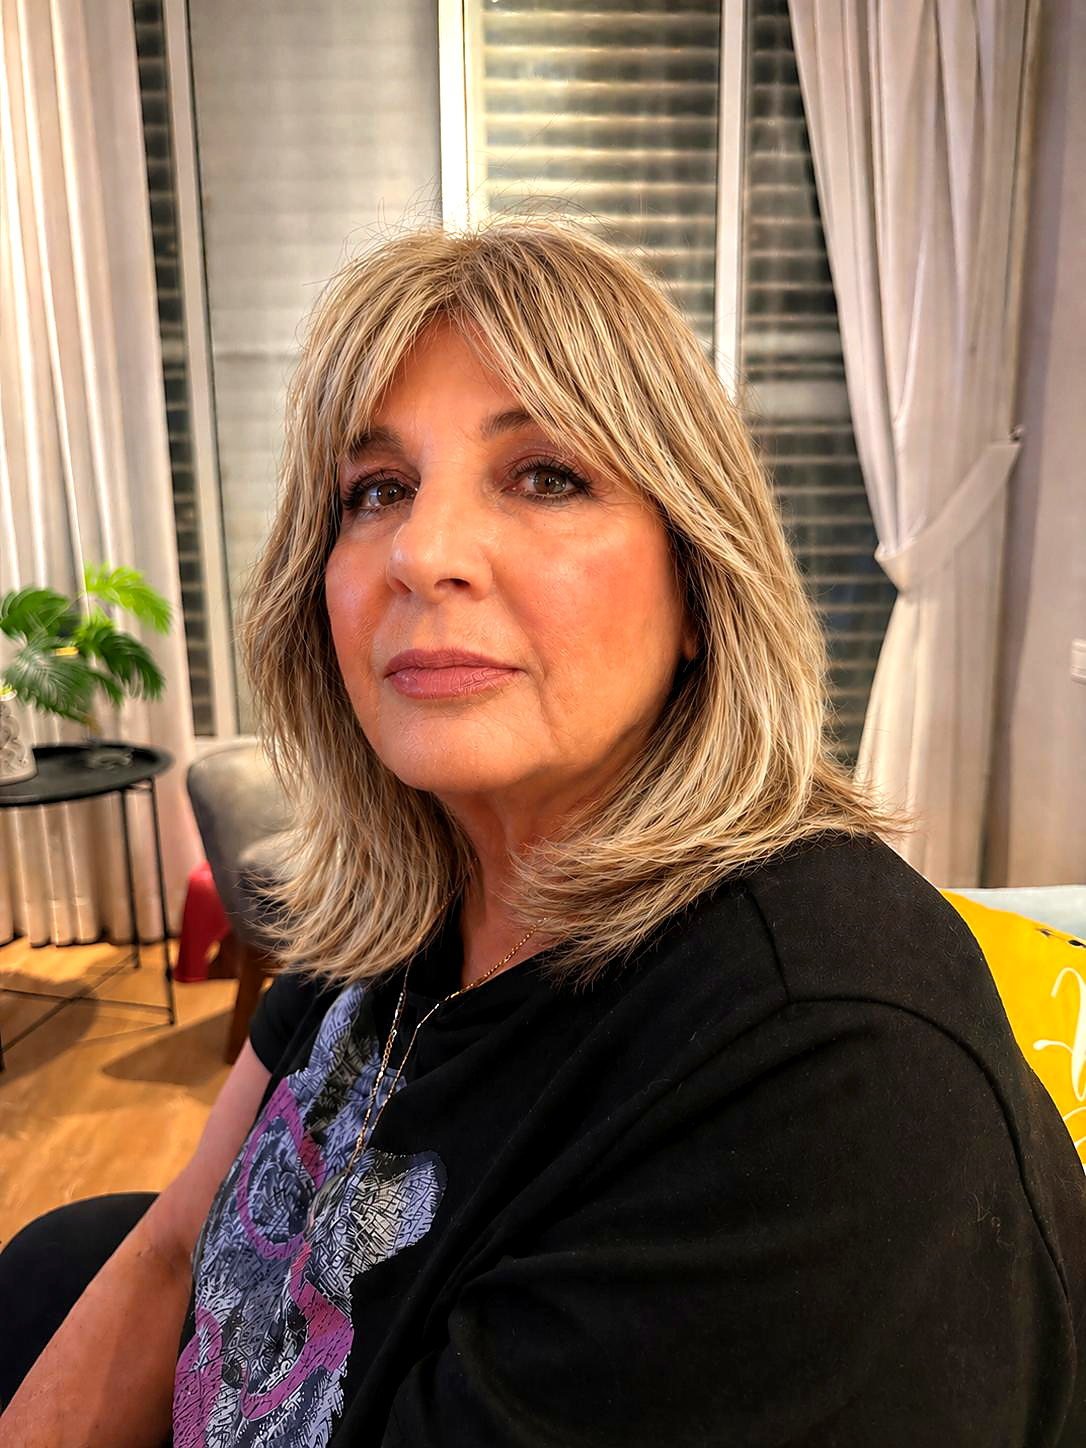
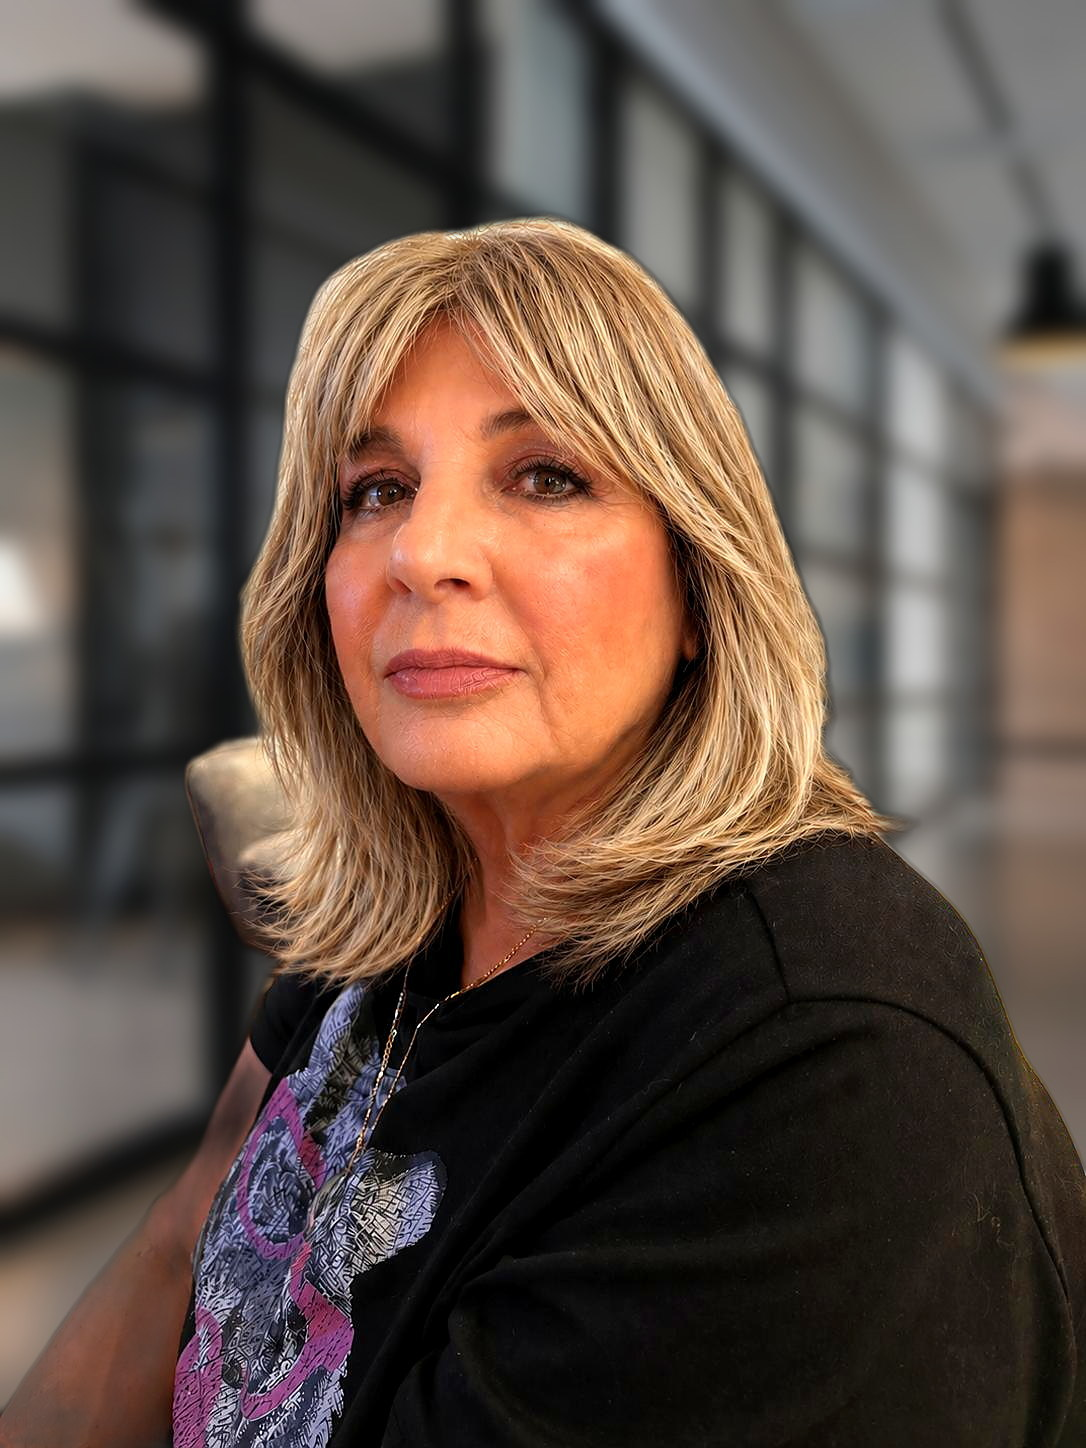
Replace photo background with blurred architect-office backdrop

diff --git a/scripts/replace_background.py b/scripts/replace_background.py
@@ -1,0 +1,88 @@
+"""
+Replace Aliza's photo background with a blurred architect-office backdrop.
+
+Pipeline:
+  1. Load the improved aliza.jpg.
+  2. rembg → extract person as RGBA (background -> transparent).
+  3. Download an architect-office background from Unsplash.
+  4. Crop + blur the background to create soft depth-of-field.
+  5. Composite the person on top.
+  6. Mild edge feathering on the mask to blend hair naturally.
+  7. Save to public/aliza.jpg (web-optimized JPEG).
+"""
+
+import io
+import sys
+import urllib.request
+from PIL import Image, ImageFilter, ImageEnhance
+
+ALIZA_PATH = "/Users/amitzack/aliza-zack-civil-webapp/public/aliza.jpg"
+# Architect office workspace — Unsplash editorial.
+BG_URL = (
+    "https://images.unsplash.com/photo-1497366754035-f200968a6e72"
+    "?auto=format&fit=crop&w=1800&q=85"
+)
+
+def main():
+    from rembg import remove  # imported here so the cli message is clean
+
+    # 1. Load and run rembg.
+    with open(ALIZA_PATH, "rb") as f:
+        input_bytes = f.read()
+    print("running rembg…", flush=True)
+    person_rgba = Image.open(io.BytesIO(remove(input_bytes))).convert("RGBA")
+    W, H = person_rgba.size
+    print(f"  cutout size: {W}x{H}")
+
+    # 2. Subtle edge feathering on the alpha for natural hair blend.
+    alpha = person_rgba.split()[-1]
+    alpha_blurred = alpha.filter(ImageFilter.GaussianBlur(radius=0.8))
+    # Slight contrast on the alpha to reduce halo at hair tips.
+    alpha_blurred = ImageEnhance.Contrast(alpha_blurred).enhance(1.10)
+    person_rgba.putalpha(alpha_blurred)
+
+    # 3. Download architect-office background.
+    print("downloading background…", flush=True)
+    with urllib.request.urlopen(BG_URL, timeout=60) as resp:
+        bg_bytes = resp.read()
+    bg = Image.open(io.BytesIO(bg_bytes)).convert("RGB")
+
+    # 4. Cover-fit background to the portrait dimensions.
+    bg_w, bg_h = bg.size
+    portrait_aspect = W / H
+    bg_aspect = bg_w / bg_h
+    if bg_aspect > portrait_aspect:
+        # bg is wider → scale by height, crop sides.
+        new_w = int(bg_h * portrait_aspect)
+        left = (bg_w - new_w) // 2
+        bg = bg.crop((left, 0, left + new_w, bg_h))
+    else:
+        # bg is taller → scale by width, crop top/bottom.
+        new_h = int(bg_w / portrait_aspect)
+        top = (bg_h - new_h) // 2
+        bg = bg.crop((0, top, bg_w, top + new_h))
+    bg = bg.resize((W, H), Image.LANCZOS)
+
+    # 5. Soft depth-of-field blur + slight desaturation so subject pops.
+    bg = bg.filter(ImageFilter.GaussianBlur(radius=12))
+    bg = ImageEnhance.Color(bg).enhance(0.85)
+    bg = ImageEnhance.Brightness(bg).enhance(0.95)
+
+    # 6. Composite.
+    composite = Image.new("RGB", (W, H))
+    composite.paste(bg, (0, 0))
+    composite.paste(person_rgba, (0, 0), person_rgba)
+
+    # 7. Save.
+    composite.save(
+        ALIZA_PATH,
+        format="JPEG",
+        quality=88,
+        optimize=True,
+        progressive=True,
+        subsampling=1,
+    )
+    print(f"wrote {ALIZA_PATH}  ({W}x{H})")
+
+if __name__ == "__main__":
+    sys.exit(main())